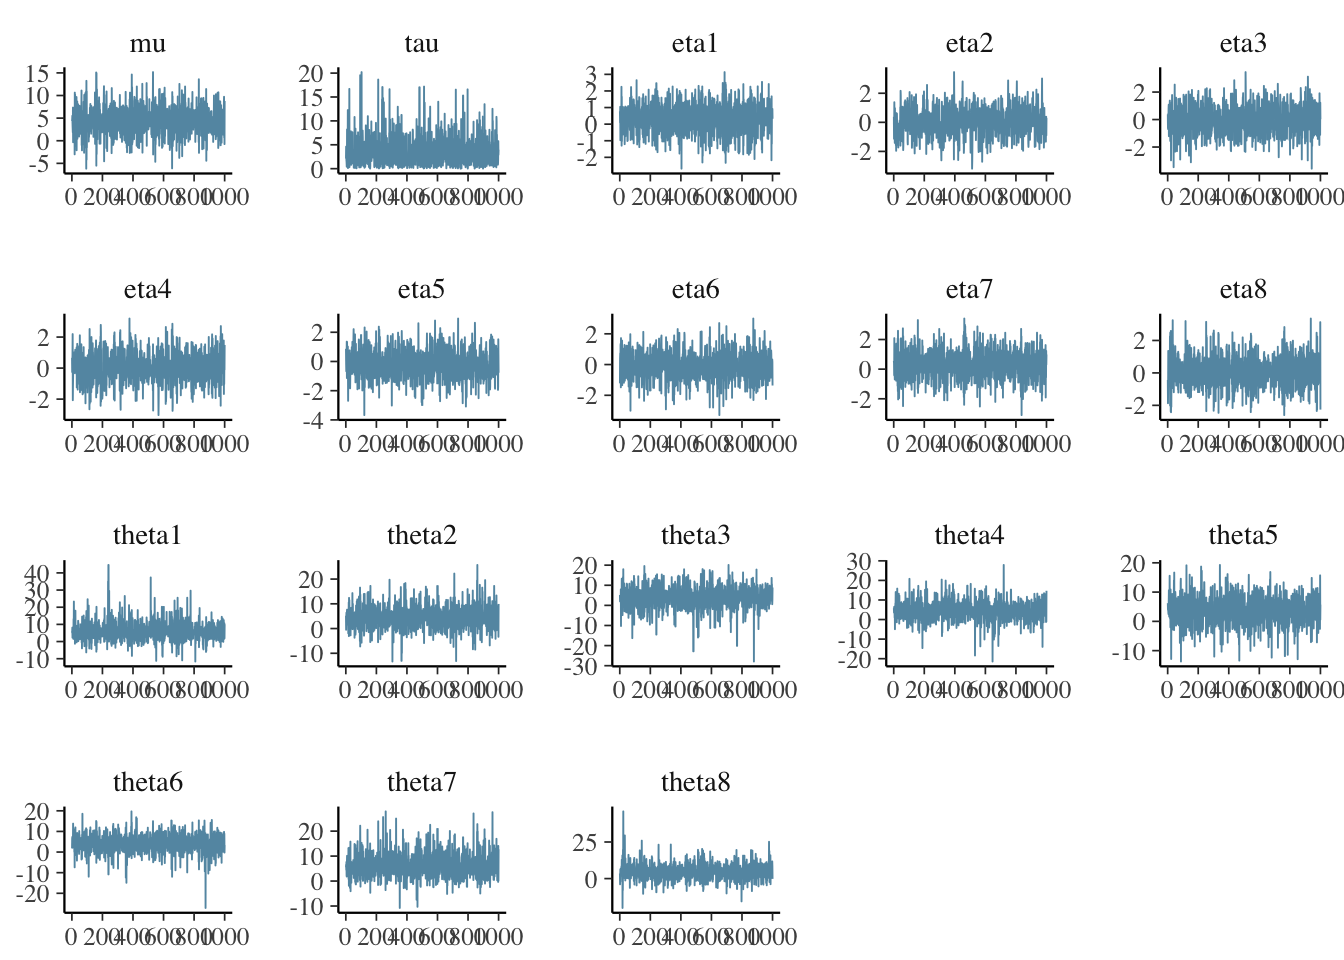
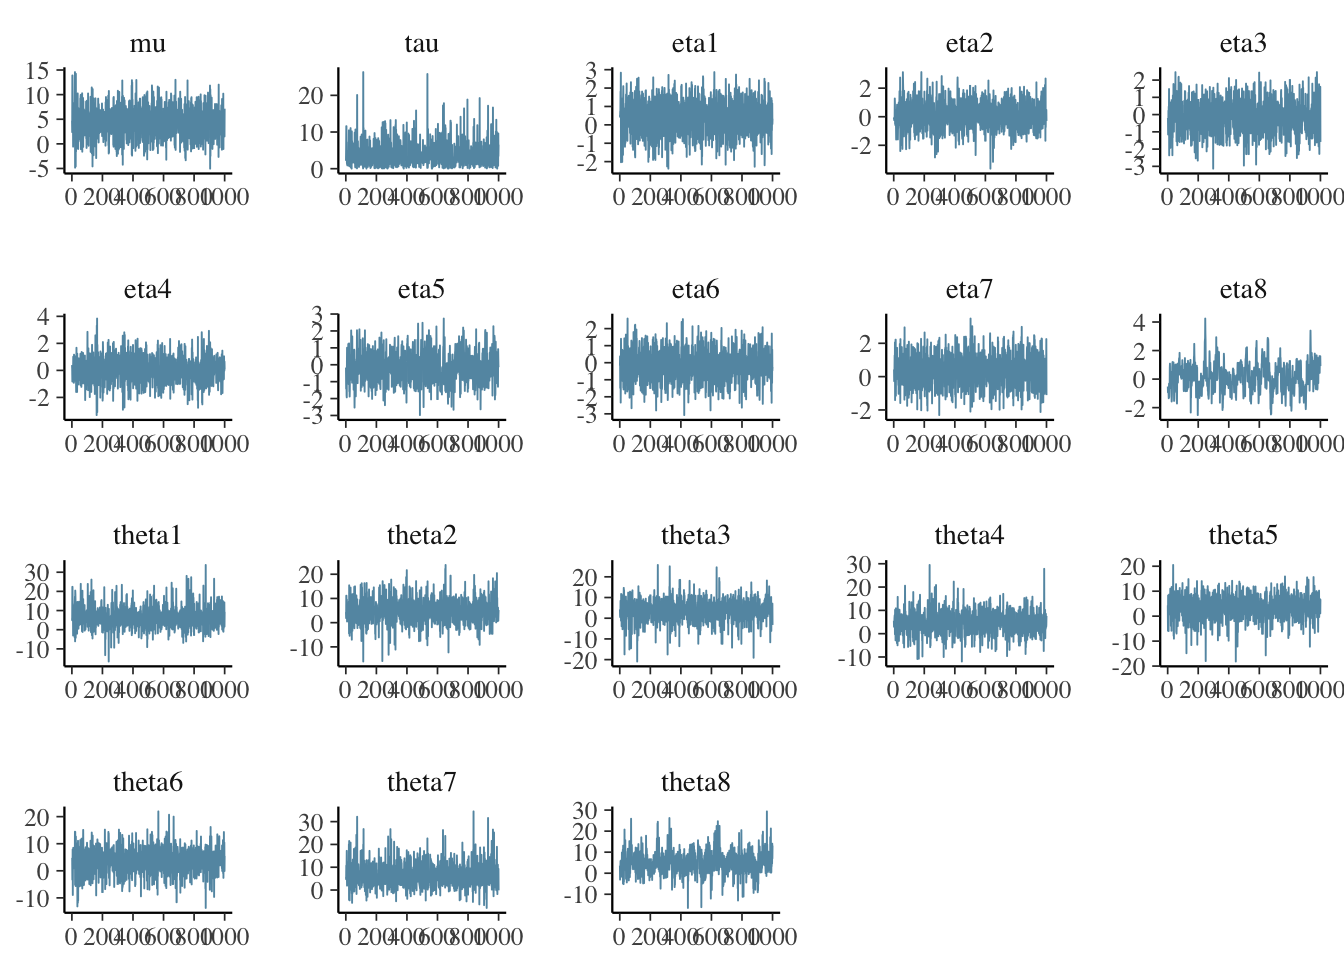
formatting

diff --git a/content/post/2018-05-02-eight-schools-excercise-with-greta.html b/content/post/2018-05-02-eight-schools-excercise-with-greta.html
@@ -59,6 +59,7 @@ sigma &lt;- as_data(sigma)</code></pre>
 <p>We are going to use more efficient <a href="https://github.com/stan-dev/rstan/wiki/RStan-Getting-Started">parametrisation</a>, where alpha_j is represented as product of two new parameters <code>tau</code> and <code>eta</code>:</p>
 <p><code>y_ij ~ N(mu + tau * eta_j, sigma_y)</code> <em>i=1,…,n_j</em>, <em>j=1,…,J</em></p>
 <p><code>eta_j ~ N(0, sigma_eta)</code> <em>j=1,…,J</em></p>
+<p>(sorry for ugly math)</p>
 </div>
 <div id="priors" class="section level2">
 <h2>Priors</h2>
@@ -106,46 +107,46 @@ render_graph(gr)</code></pre>
 ##    plus standard error of the mean:
 ## 
 ##            Mean     SD Naive SE Time-series SE
-## mu      4.46612 3.1793  0.10054        0.05746
-## tau     3.49254 3.2515  0.10282        0.09477
-## eta1    0.29327 0.9225  0.02917        0.01362
-## eta2    0.03711 0.9502  0.03005        0.03838
-## eta3   -0.05267 1.0404  0.03290        0.02977
-## eta4    0.05379 1.0008  0.03165        0.02567
-## eta5   -0.16384 0.9760  0.03086        0.03482
-## eta6   -0.06491 0.8992  0.02844        0.02331
-## eta7    0.31736 0.9702  0.03068        0.01607
-## eta8    0.06382 0.9637  0.03048        0.01275
-## theta1  6.03477 5.6160  0.17759        0.16285
-## theta2  4.67581 4.6382  0.14667        0.11824
-## theta3  3.93124 5.5726  0.17622        0.16600
-## theta4  4.66895 4.9144  0.15541        0.14651
-## theta5  3.77913 4.7880  0.15141        0.12214
-## theta6  4.09232 4.5189  0.14290        0.11857
-## theta7  6.21985 4.9566  0.15674        0.11185
-## theta8  4.82537 5.3555  0.16936        0.11533
+## mu      4.41535 3.3228  0.10508        0.05388
+## tau     3.68902 3.3627  0.10634        0.08719
+## eta1    0.37406 0.9482  0.02998        0.02287
+## eta2    0.13235 0.9771  0.03090        0.03045
+## eta3   -0.15954 0.9469  0.02994        0.02656
+## eta4    0.03705 0.9915  0.03135        0.02224
+## eta5   -0.15395 0.9080  0.02871        0.03866
+## eta6   -0.14583 0.9353  0.02958        0.02516
+## eta7    0.37774 0.9792  0.03096        0.01775
+## eta8    0.15968 0.9439  0.02985        0.08131
+## theta1  6.30701 5.5055  0.17410        0.14969
+## theta2  5.02931 4.9427  0.15630        0.11673
+## theta3  3.74296 5.3557  0.16936        0.13201
+## theta4  4.73177 4.8754  0.15417        0.11120
+## theta5  3.64413 4.7418  0.14995        0.12020
+## theta6  3.80774 4.7976  0.15171        0.09634
+## theta7  6.46883 5.2627  0.16642        0.12358
+## theta8  5.12902 5.3601  0.16950        0.29377
 ## 
 ## 2. Quantiles for each variable:
 ## 
 ##           2.5%     25%      50%    75%  97.5%
-## mu     -1.8755  2.4803  4.52315 6.5427 10.784
-## tau     0.1339  1.1390  2.59738 4.9626 11.807
-## eta1   -1.5804 -0.2871  0.30973 0.9482  2.065
-## eta2   -1.7890 -0.5729  0.02578 0.6851  1.864
-## eta3   -1.9532 -0.7809 -0.06082 0.6513  1.921
-## eta4   -1.9713 -0.6328  0.04319 0.7451  2.002
-## eta5   -2.1049 -0.8014 -0.17743 0.4881  1.769
-## eta6   -1.8155 -0.6560 -0.09978 0.5066  1.776
-## eta7   -1.6015 -0.2824  0.32195 0.9503  2.225
-## eta8   -1.7840 -0.5819  0.02457 0.6901  2.148
-## theta1 -3.2762  2.7040  5.57025 8.4635 18.339
-## theta2 -4.4679  1.8493  4.74291 7.1982 14.429
-## theta3 -8.6018  1.1870  4.24405 7.0615 14.475
-## theta4 -4.6000  1.8802  4.68312 7.5050 15.191
-## theta5 -6.6463  1.0285  4.06419 6.6990 12.733
-## theta6 -5.4450  1.7225  4.24301 6.7419 12.647
-## theta7 -1.8856  2.9229  5.64820 8.7462 17.829
-## theta8 -5.3336  1.8573  4.83502 7.6932 15.703</code></pre>
+## mu     -1.6376  2.1114  4.48032 6.7044 10.597
+## tau     0.1141  1.3109  2.77359 5.0914 12.231
+## eta1   -1.6008 -0.2737  0.41792 1.0524  2.118
+## eta2   -1.6888 -0.5071  0.10719 0.8203  2.011
+## eta3   -1.8939 -0.8190 -0.12364 0.4589  1.740
+## eta4   -1.9138 -0.5894  0.03238 0.6614  2.097
+## eta5   -1.8217 -0.7787 -0.20480 0.4675  1.677
+## eta6   -1.9597 -0.7761 -0.12743 0.4851  1.591
+## eta7   -1.4724 -0.2810  0.37027 1.0414  2.287
+## eta8   -1.6562 -0.4792  0.14971 0.7986  1.982
+## theta1 -3.3043  3.1081  5.81120 9.2221 20.138
+## theta2 -4.6621  2.2439  4.98943 8.0184 15.467
+## theta3 -7.6085  0.8741  3.97666 7.0092 13.339
+## theta4 -5.0769  1.8903  4.76279 7.5967 14.270
+## theta5 -6.9775  0.9702  3.90367 6.7749 12.019
+## theta6 -6.3862  0.9238  3.96682 6.9105 12.991
+## theta7 -2.1631  3.0829  5.88333 9.1446 18.635
+## theta8 -4.9428  1.8818  4.93887 8.3155 16.551</code></pre>
 <p>MCMC chain and the parameter estimates can be plotted using <code>bayesplot</code> package:</p>
 <pre class="r"><code>library(bayesplot)</code></pre>
 <pre><code>## This is bayesplot version 1.4.0</code></pre>
@@ -155,5 +156,4 @@ render_graph(gr)</code></pre>
 <p><img src="/post/2018-05-02-eight-schools-excercise-with-greta_files/figure-html/unnamed-chunk-11-1.png" width="672" /></p>
 <pre class="r"><code>mcmc_intervals(draws)</code></pre>
 <p><img src="/post/2018-05-02-eight-schools-excercise-with-greta_files/figure-html/unnamed-chunk-11-2.png" width="672" /></p>
-<p>P.S. Sorry, I could not get math working.</p>
 </div>
